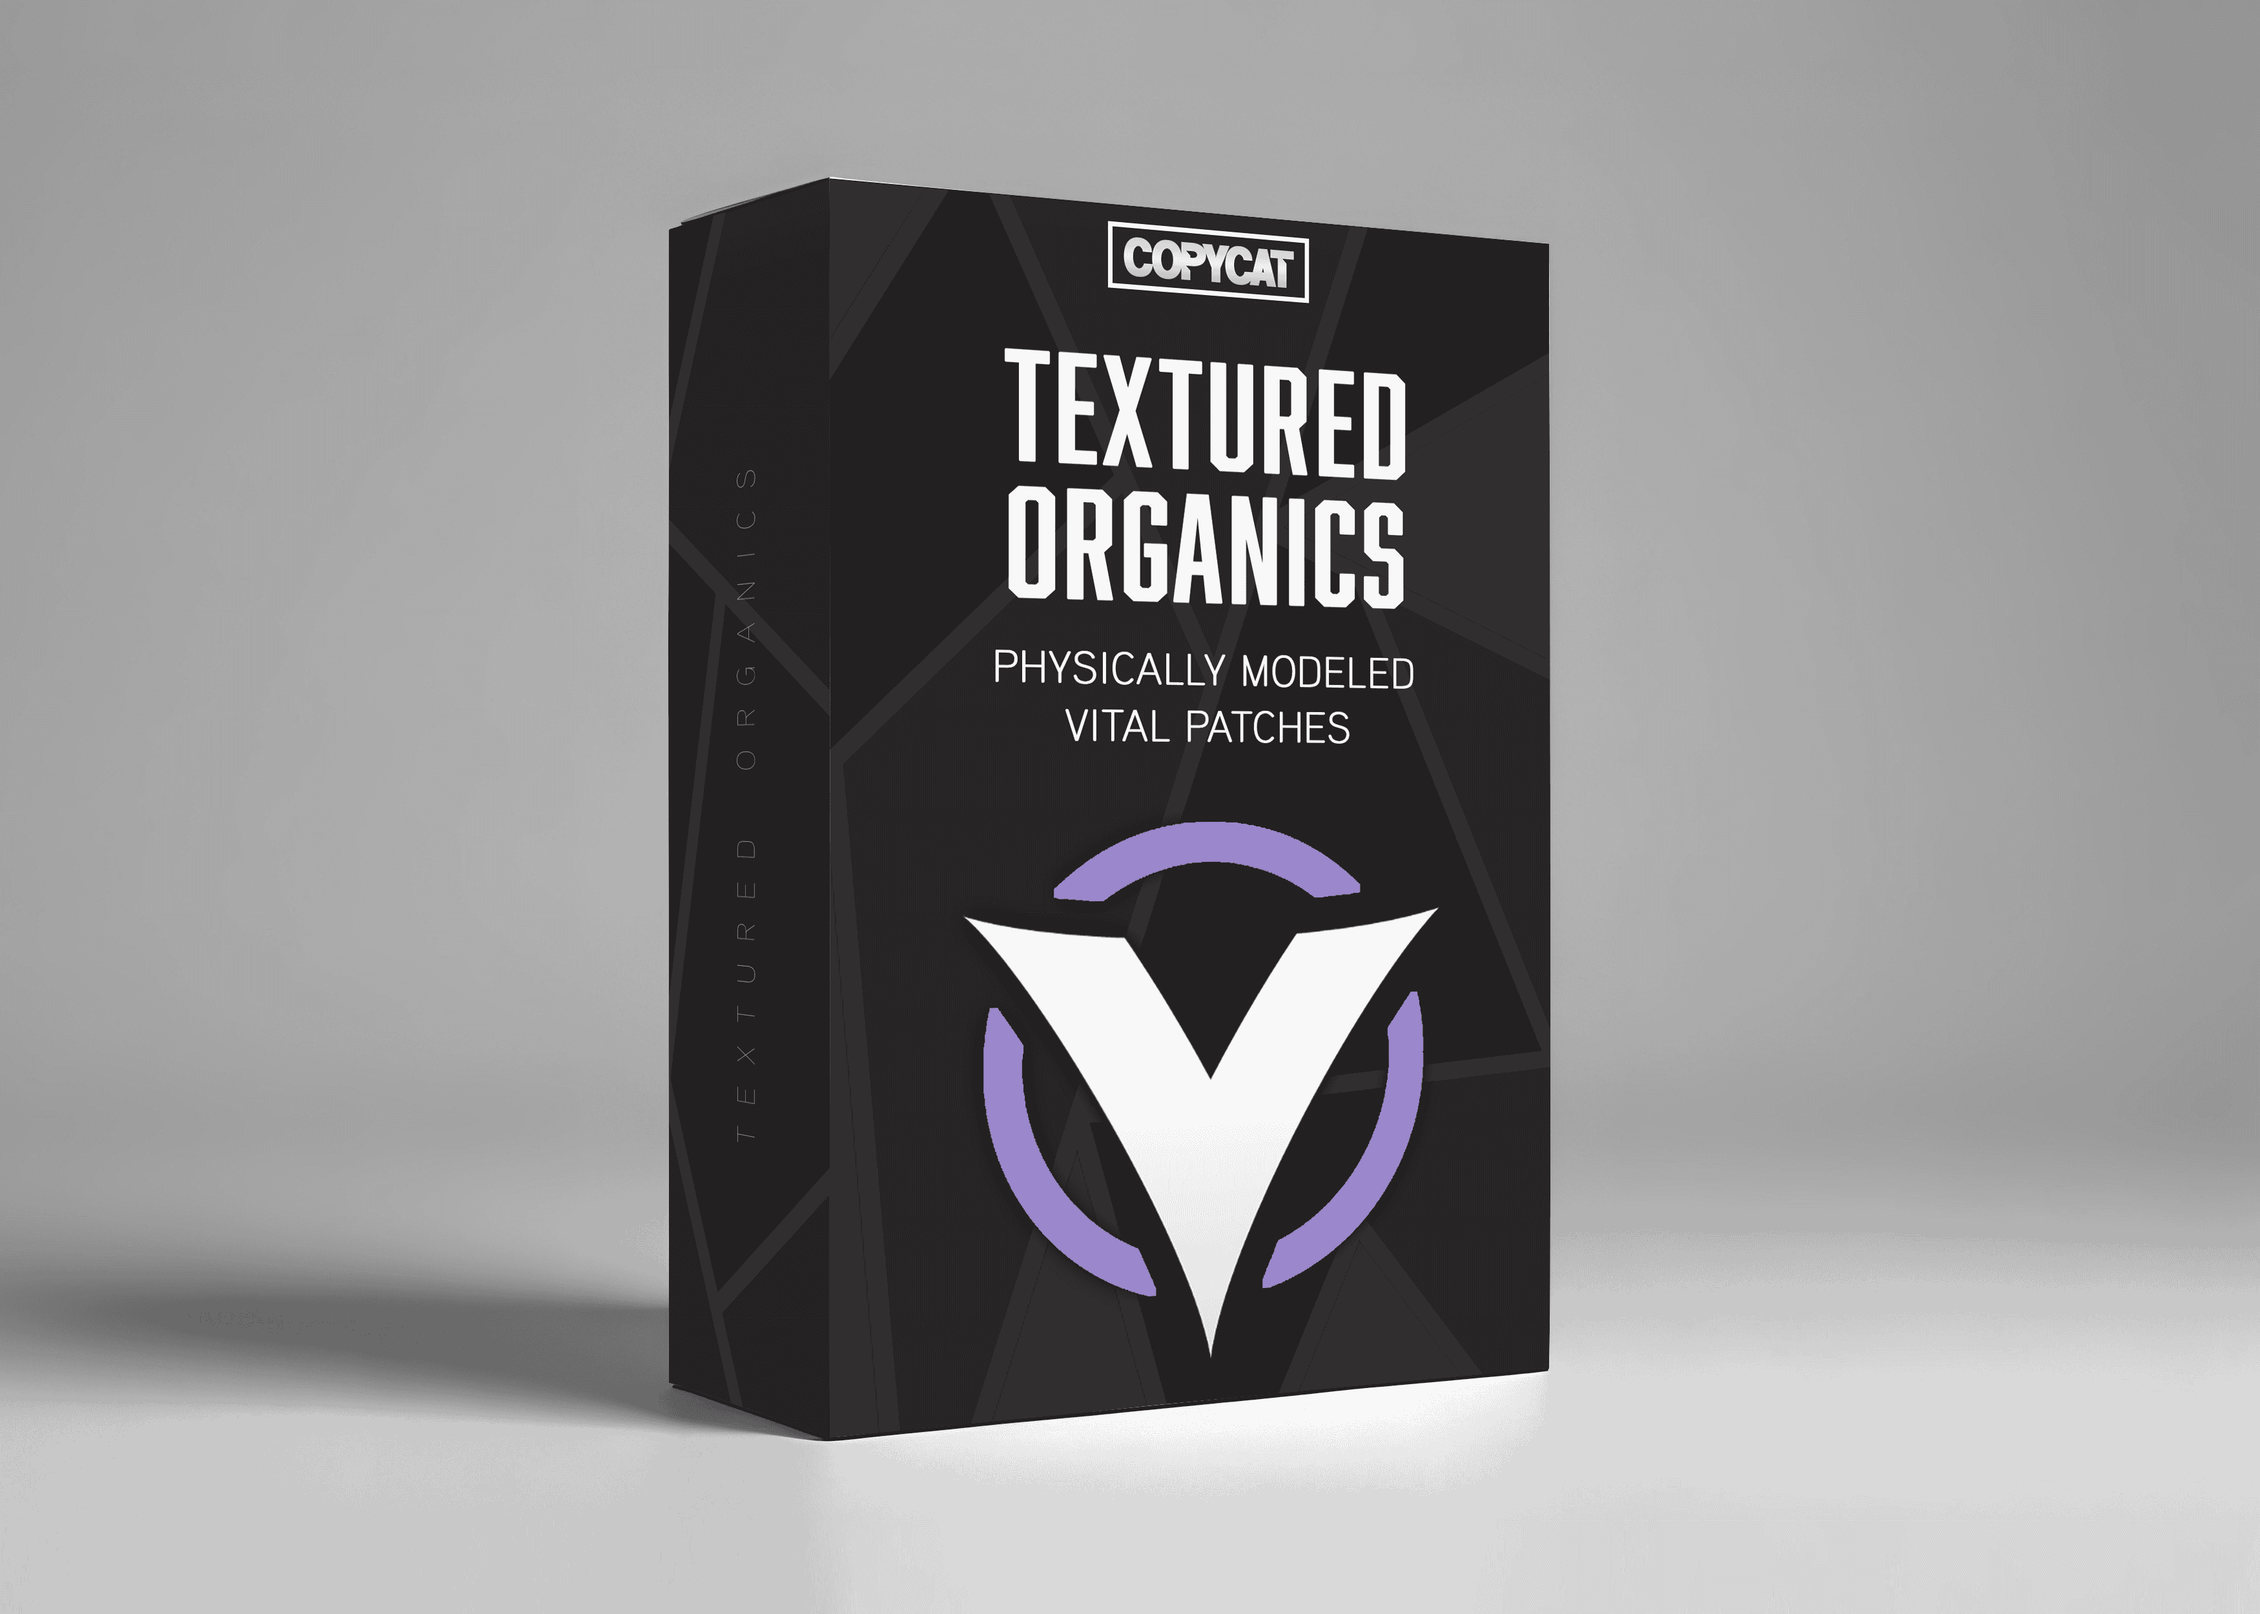
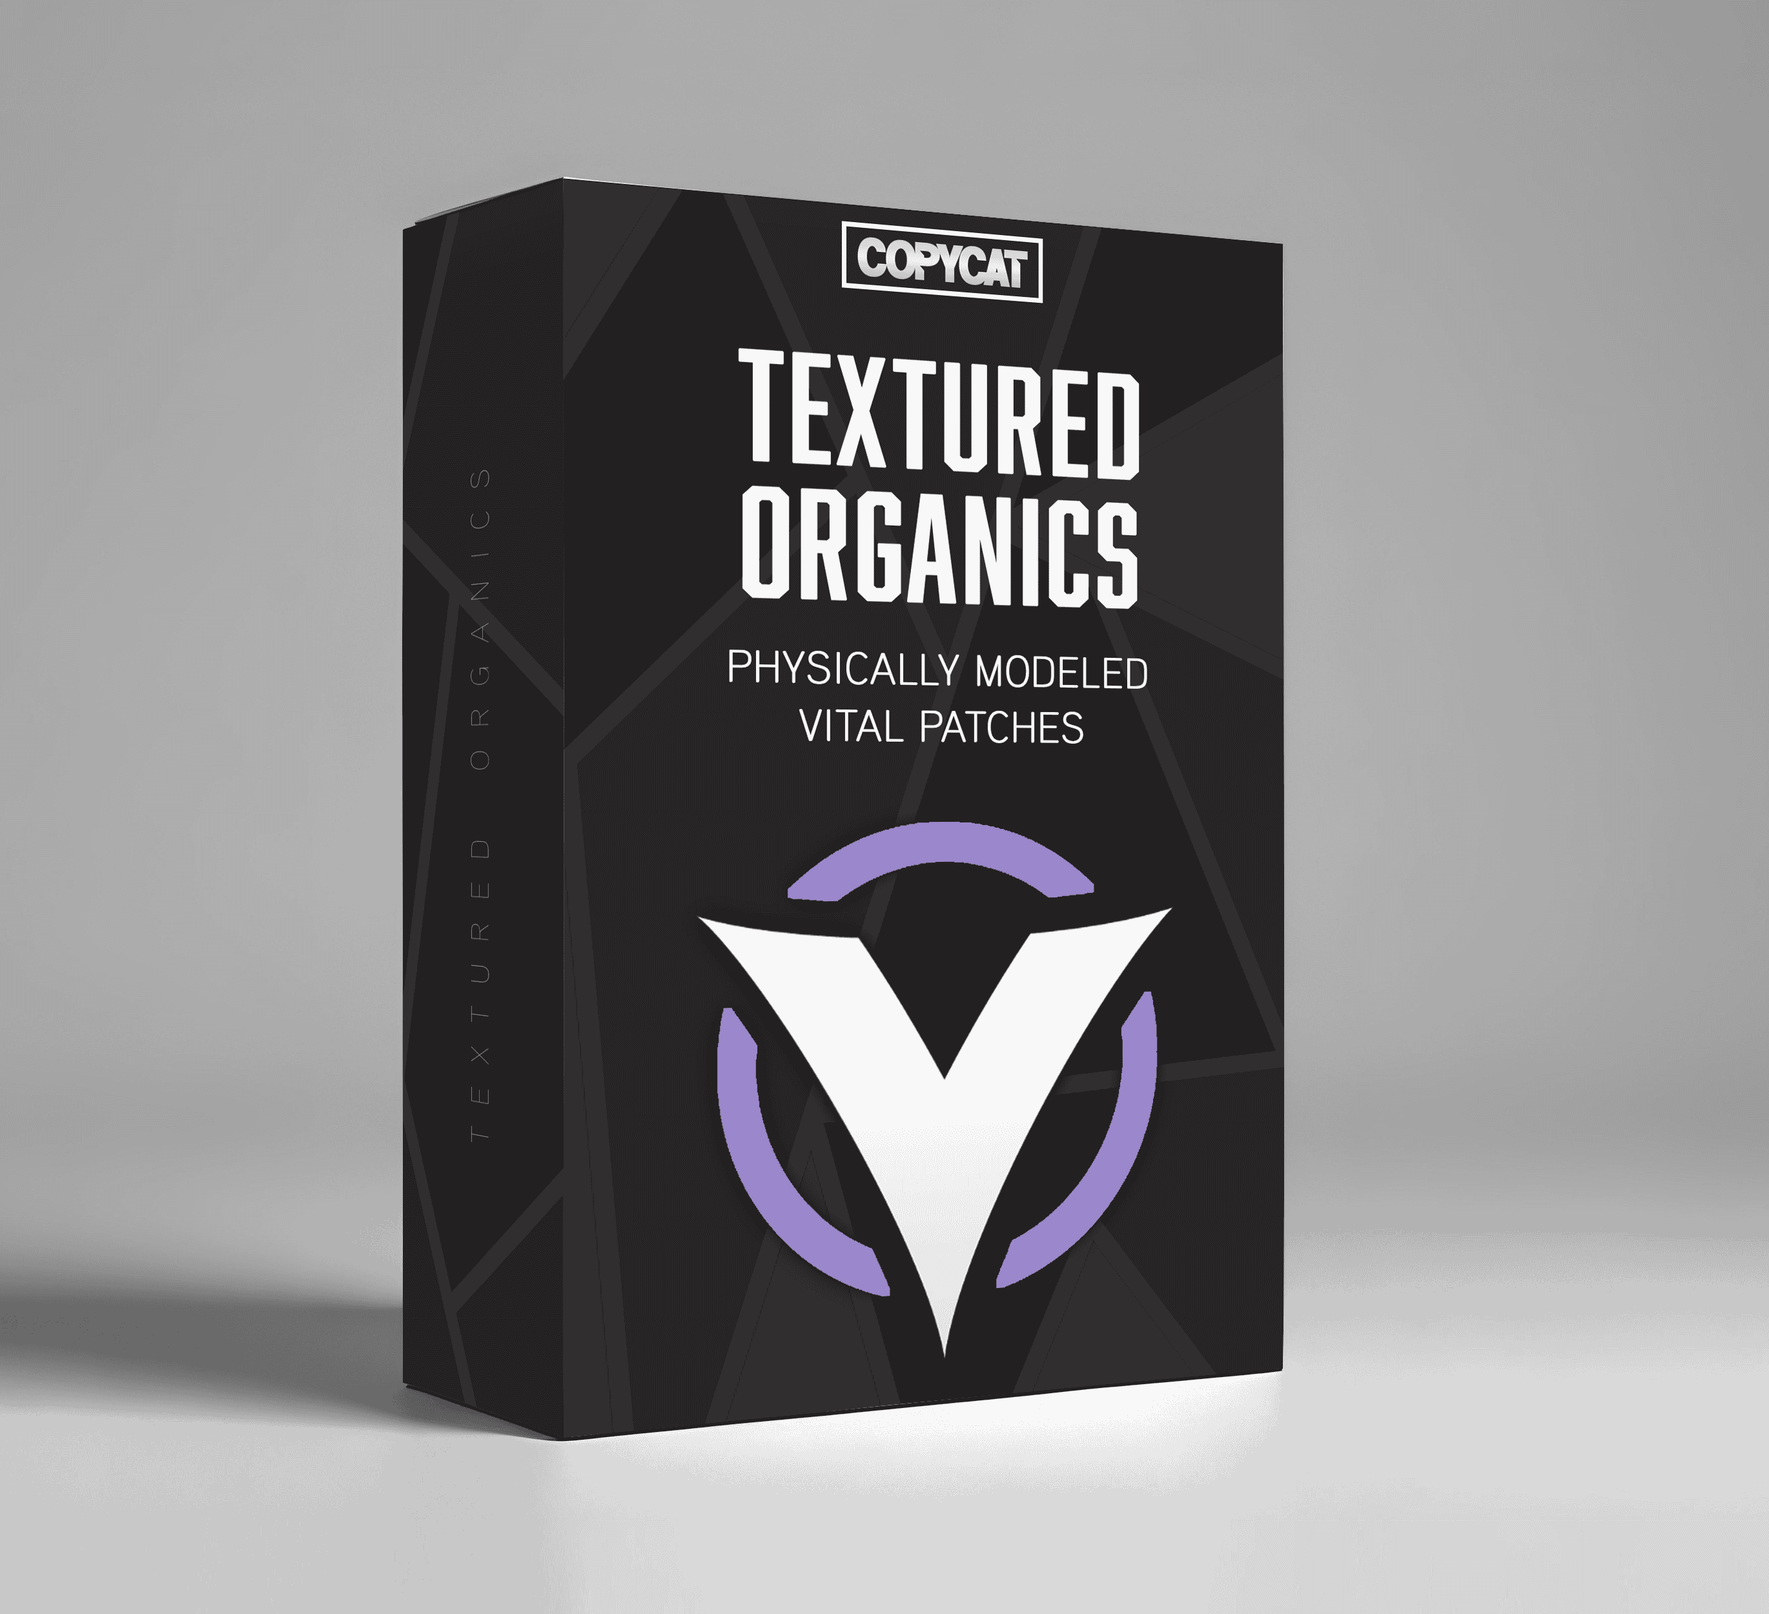
commit

diff --git a/index.html b/index.html
@@ -58,7 +58,7 @@
             </div>
             <div class="hero-section-latest-pack">
                 <div class="hero-section-latest-pack-img">
-                    <img src="./images/product-images/product-one-img.png" alt="">
+                    <img src="./images/product-images/product-one-img-2.png" alt="">
                 </div>
                 <div>
                    <div>
@@ -82,7 +82,7 @@
                     <a href="./textured-organics.html" style="color: #000;">
                       <div class="recent-remake-card">
                         <div class="recent-remake-img">
-                            <img src="./images/product-images/product-one-img.png" alt="">
+                            <img src="./images/product-images/product-one-img-2.png" alt="">
                         </div>
                         <div class="recent-remake-content">
                           <h2>Textured Organics</h2>
@@ -142,9 +142,9 @@
     <div class="filter-container">
         <div id="button-container">
             <button id="button-1" class="active-button" onclick="showContainer(1)">All Products</button>
-            <button id="button-2" onclick="showContainer(2)">Vital Presents</button>
-            <button id="button-3" onclick="showContainer(3)">Serum Presents</button>
-            <button id="button-4" onclick="showContainer(4)">Sylenth Presents</button>
+            <button id="button-2" onclick="showContainer(2)">Vital Presets</button>
+            <button id="button-3" onclick="showContainer(3)">Serum Presets</button>
+            <button id="button-4" onclick="showContainer(4)">Sylenth Presets</button>
             <button id="button-5" onclick="showContainer(5)">Sample Packs</button>
         </div>
     
@@ -155,7 +155,7 @@
 
                     <a href="./textured-organics.html">
                       <div class="product-card" style="border: none;">
-                        <img style="border: none;" src="./images/product-images/product-one-img-without-bg.png" alt="">
+                        <img style="border: none;" src="./images/product-images/product-one-img-withoud-bg-2.png" alt="">
                         
                         <div class="product-card-content">
                           <h2>Textured Organics</h2>
